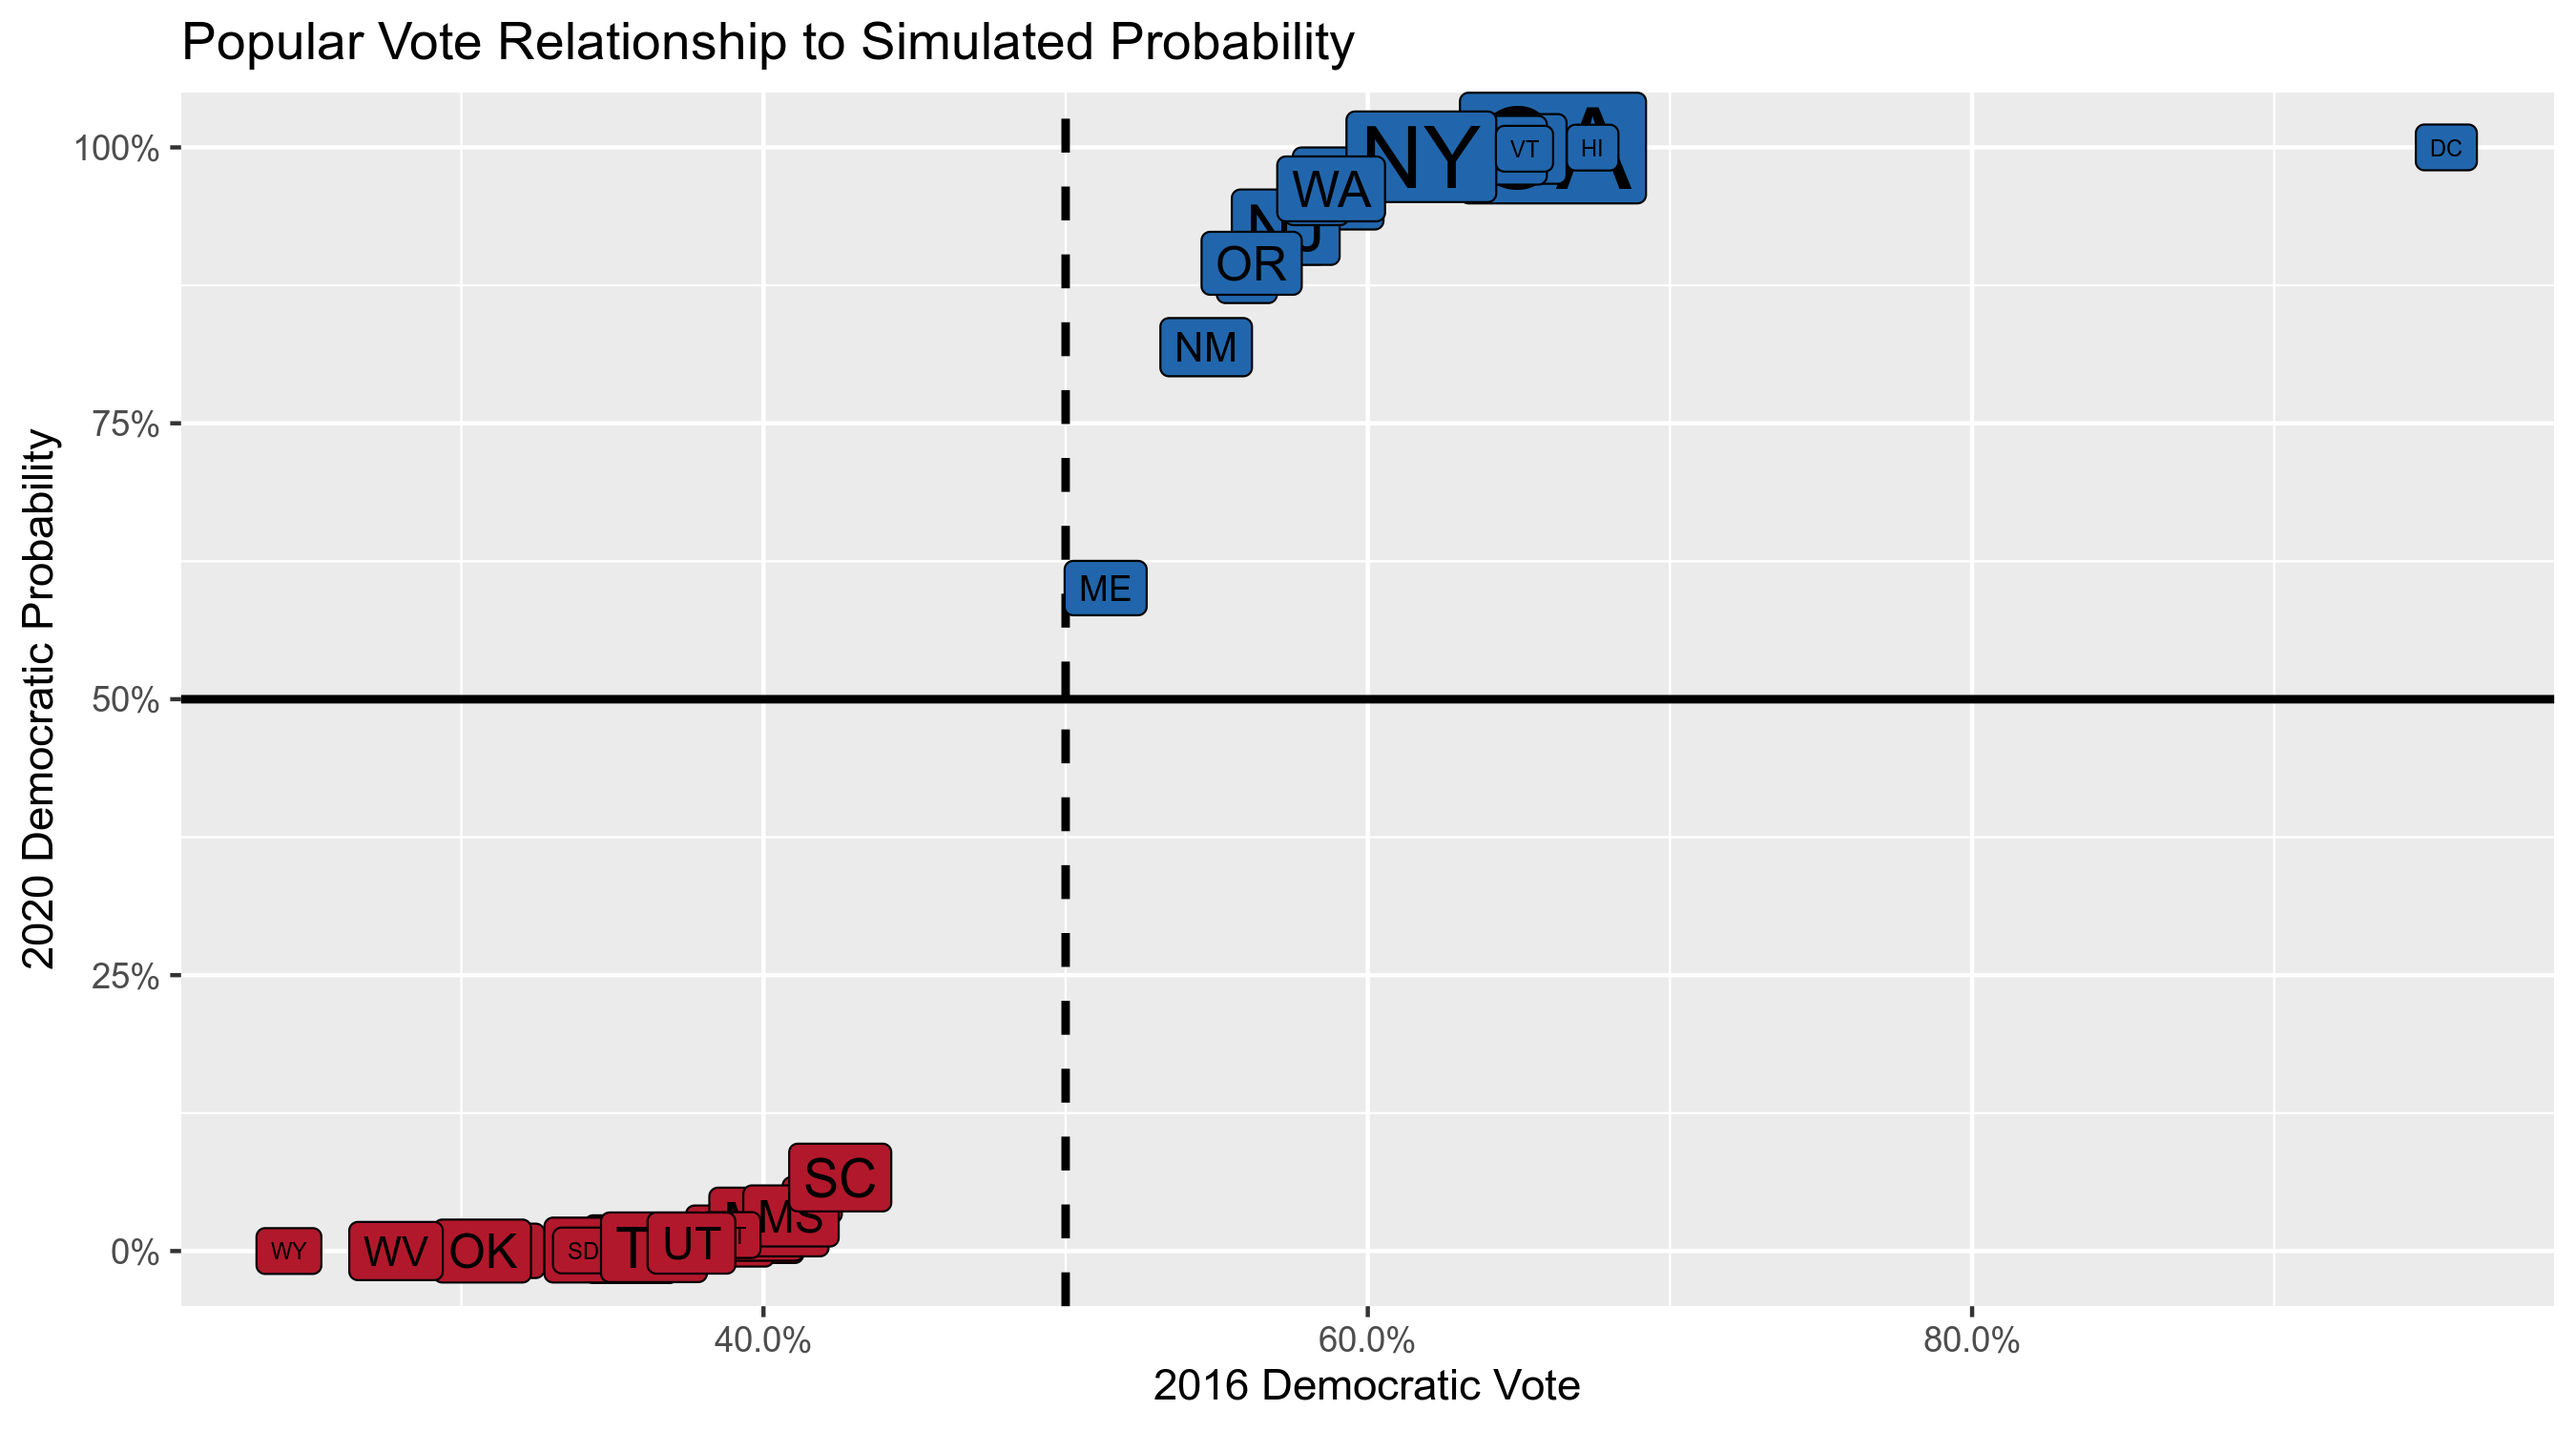
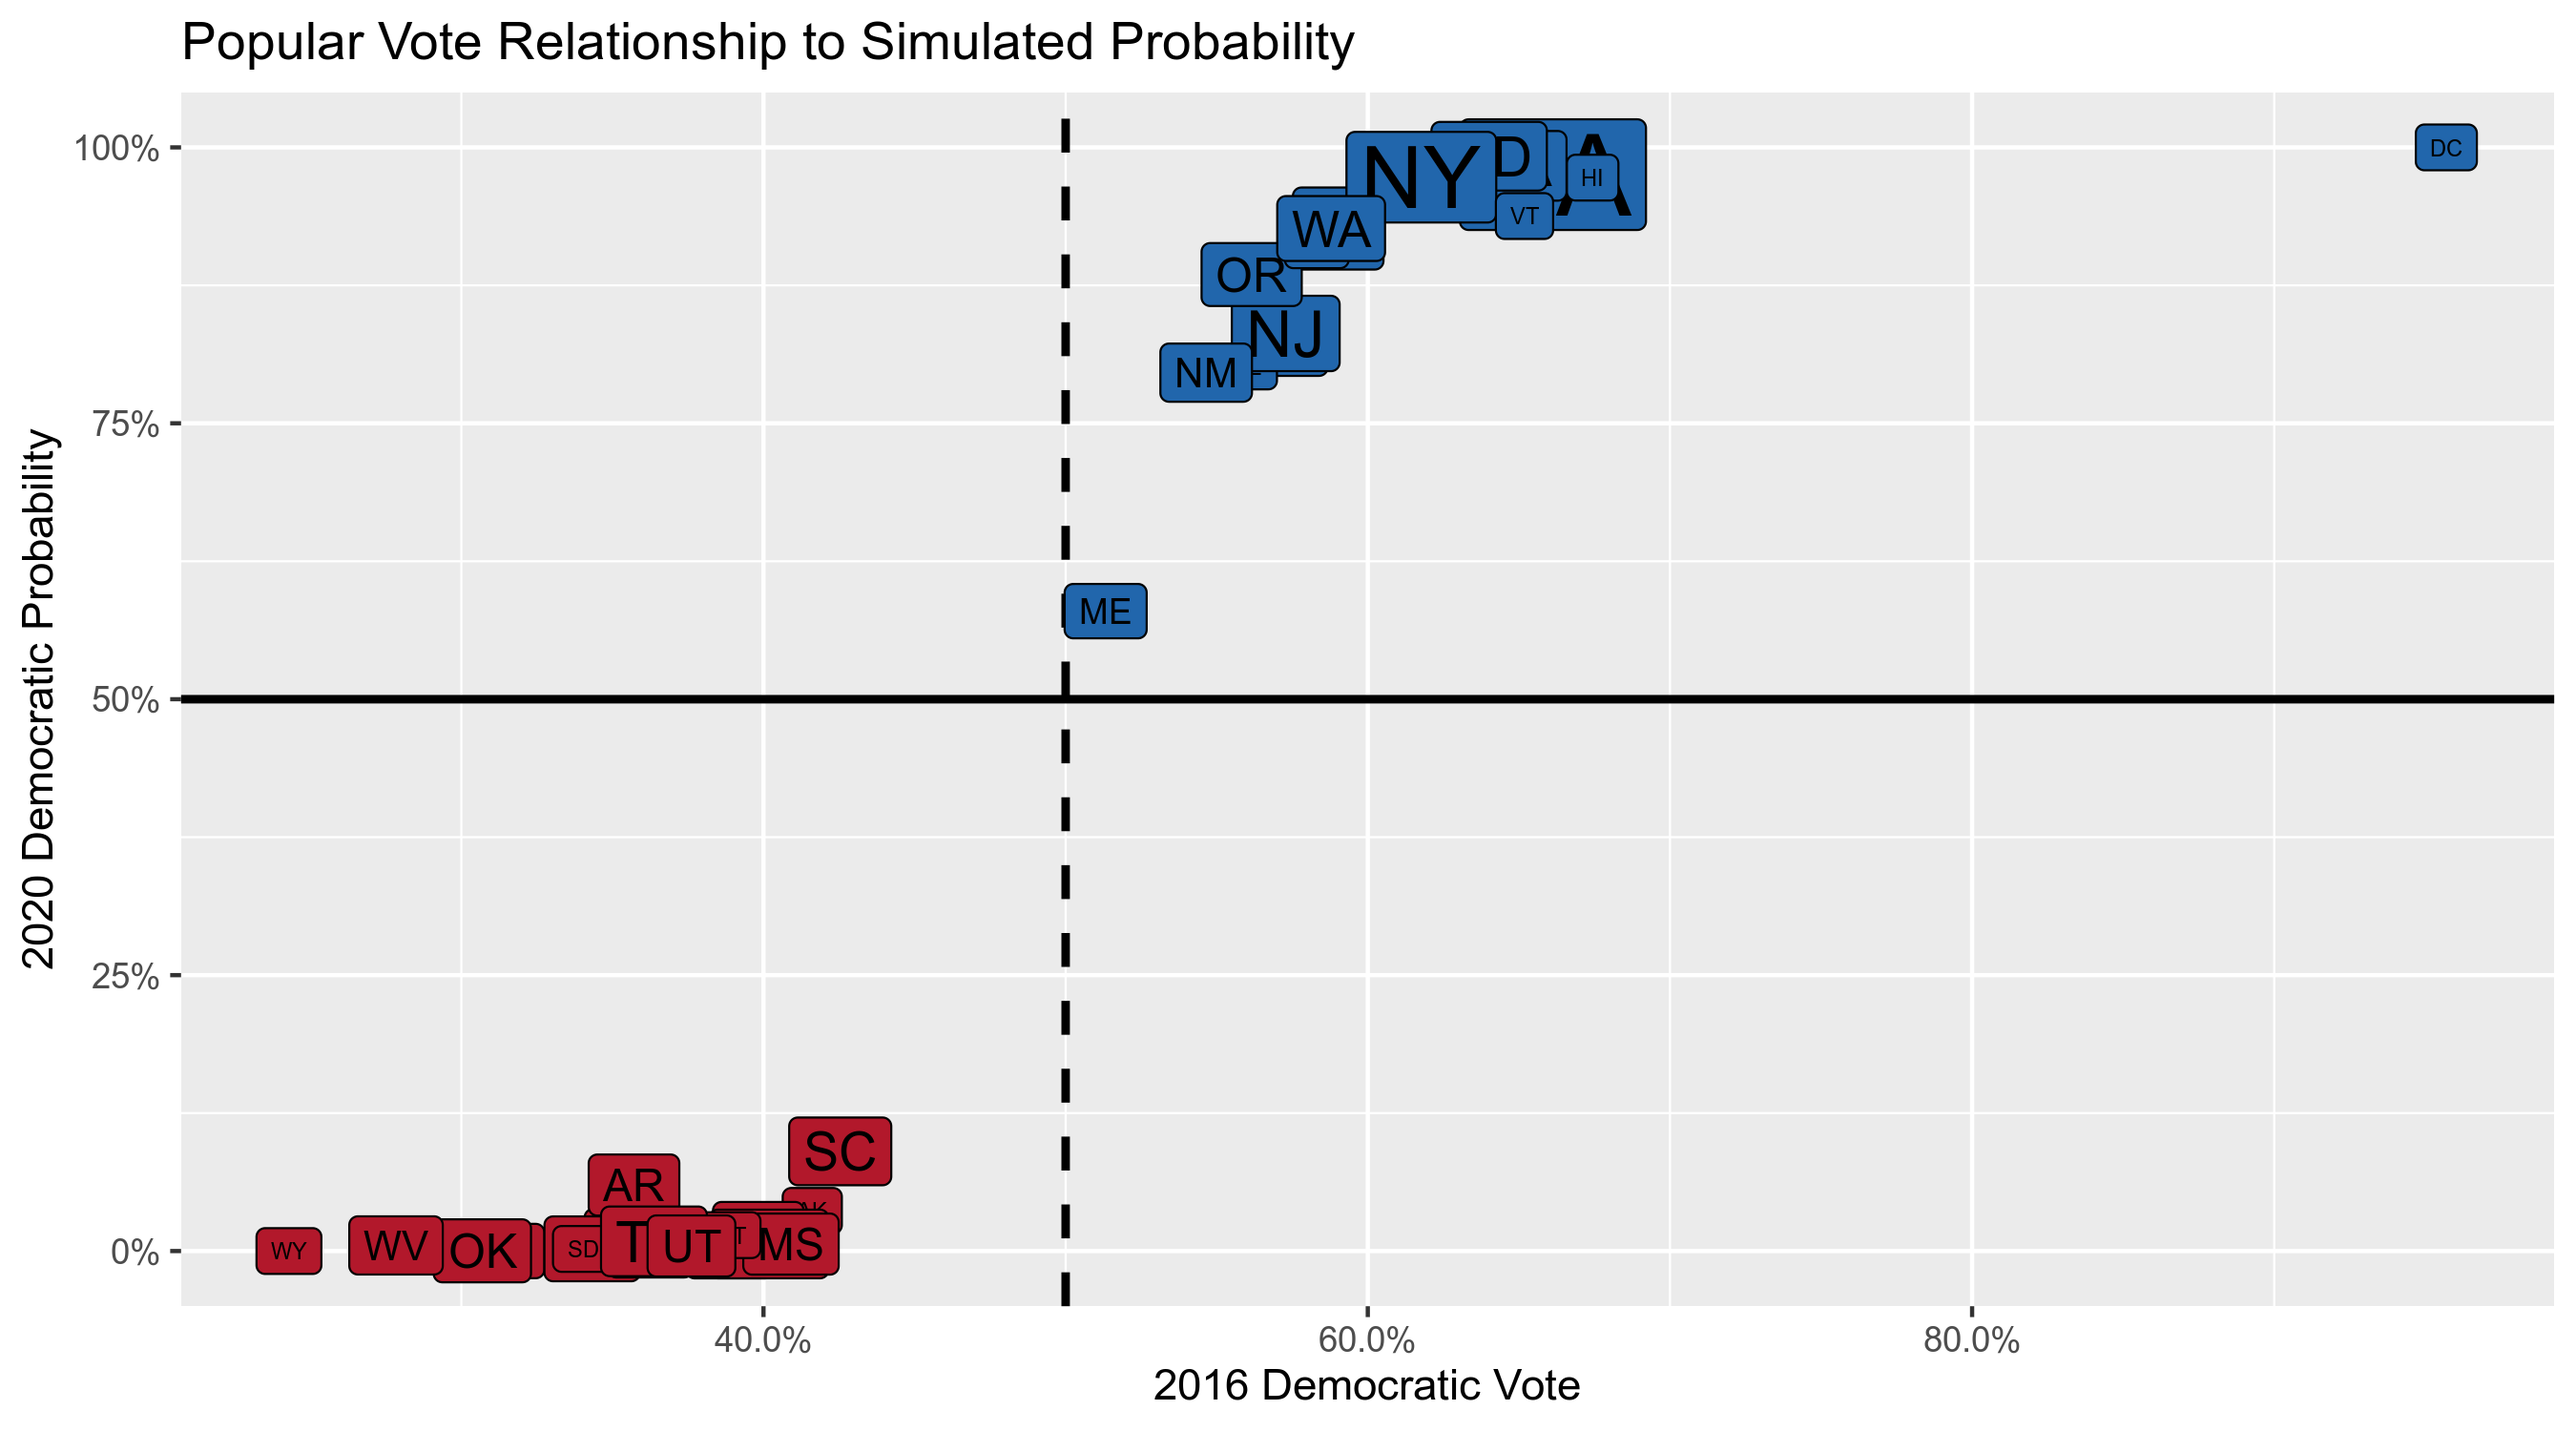
Use sd from past 11 elections

diff --git a/docs/sim_ec/sim_college.md b/docs/sim_ec/sim_college.md
@@ -158,17 +158,101 @@ those states *with* 2020 markets and those without.
 ![](sim_college_files/figure-gfm/vote_range-1.png)<!-- -->
 
 For those states without a market, we need to convert these vote shares
-to probabilities. In reality, a even a 5% edge results in a significant
-advantage and a probability difference much greater than 5%.
+to probabilities. In reality, a even a 5% edge in the popular vote
+results in a significant advantage and a probability difference much
+greater than 5%.
 
 To make this conversion, we simulate many new election using the 2016
-result. These simulated elections are normally distributed around the
-2016 results with a standard deviation of 0.5 to account for the
-uncertainty that’s developed in the last 3 years. Below you can see the
-results of 1,000 simulated elections in Maryland, which voted 64.0% for
-the Democratic candidate in the last election. The area under the curve
-past 50% is the *probability* of a democrat winning again in the next
-election.
+result. We make these simulations using a normal distribution around the
+2016 result. The standard deviation of such a distribution is where
+uncertainty is introduced, converting our popular vote to a probability.
+
+More complicated forecasting models like those released by
+FiveThirtyEight use proprietary models to calculate this degree of
+uncertainty. We know these models incorperate a number of historically
+predictive variables (partisanship, fundraising, incumbency, etc). For
+this simple demonstration, I will calculate the standard deviation of
+the past 11 Presidential elections in each state.
+
+The MIT Dataverse contains a dataset of Presidential contests since 1976
+with party vote counts in each state. We can read the file using
+`readr::read_tsv()` and calulating the standard deviation with
+`dplyr::group_by()` and `dplyr::summarize()`.
+
+``` r
+mit_url <- "https://dataverse.harvard.edu/api/access/datafile/:persistentId?persistentId=doi:10.7910/DVN/42MVDX/MFU99O"
+# MIT Election Data and Science Lab, 2017, "1976-2016-president.tab"
+# https://doi.org/10.7910/DVN/42MVDX/MFU99O, Harvard Dataverse, V5
+
+potus <- read_delim(
+    file = mit_url,
+    delim = "\t",
+    escape_double = FALSE,
+    escape_backslash = TRUE
+  )
+```
+
+``` r
+states_sd <- potus %>%
+  filter(candidatevotes > 1000) %>% 
+  filter(party %in% c("democrat")) %>%
+  mutate(prop = candidatevotes/totalvotes,) %>%
+  select(year, state = state_po, prop) %>%
+  group_by(state) %>%
+  summarize(sd = sd(prop))
+```
+
+Standard deviation is the variation in election results. A state with
+little change year to year will have a lower standard deviation,
+increasing our confidence and decreasing uncertainty in the next
+election/.
+
+``` r
+left_join(usa_map, states_sd) %>%
+  filter(state != "DC") %>% 
+  ggplot(mapping = aes(x = long, y = lat, group = group)) +
+  geom_polygon(color = "black", mapping = aes(fill = sd)) +
+  coord_quickmap() +
+  scale_fill_distiller(
+    type = "seq", palette = 5, direction = 1
+  ) +
+  theme(
+    legend.position = c(0.9, 0.35),
+    panel.background = element_blank(),
+    panel.grid = element_blank(),
+    plot.title = element_text(hjust = 0.5),
+    axis.text  = element_blank(),
+    axis.title = element_blank(),
+    axis.ticks = element_blank()
+  ) +
+  labs(
+    title = "Variation in Presidential Elections 1976-2016",
+    fill = "Standard\nDeviation"
+    )
+```
+
+![](sim_college_files/figure-gfm/unnamed-chunk-1-1.png)<!-- -->
+
+Using this standard deviation, we can generate 10,000 values from this
+random normal distribution. We can think of each of these values as a
+simulated election. The percentage of simulated elections won is the
+same as the *probability* of winning.
+
+``` r
+past_results <- past_results %>% 
+  left_join(states_sd) %>%
+  rowwise() %>% 
+  mutate(prob = mean(rnorm(10000, past, sd) > 0.50))
+```
+
+If we visualize this process, we can see how the 2016 result and a
+standard deviation is used to simulate many elections and calculate a
+probability.
+
+Below you can see the results of 1,000 simulated elections in Maryland,
+where 64.0% of votes were cast for the Democratic candidate in the last
+election. The area under the curve past 50% is the *probability* of a
+democrat winning again in the next election.
 
 ![](sim_college_files/figure-gfm/example_range_md-1.png)<!-- -->
 
@@ -185,27 +269,16 @@ by simulating the Connecticut election 30 times.
 ``` r
 (ex_past <- past_results$past[past_results$state == "CT"])
 #> [1] 0.5714155
-(ex_sims <- round(x = rnorm(n = 30, mean = ex_past, sd = 0.05), digits = 4))
-#>  [1] 0.6491 0.5383 0.5766 0.5286 0.5049 0.4915 0.5976 0.6158 0.6076 0.5793 0.4978 0.6854 0.6533
-#> [14] 0.5576 0.5244 0.6229 0.5843 0.5950 0.5569 0.5935 0.5326 0.4771 0.5352 0.5523 0.5018 0.6710
-#> [27] 0.6084 0.5719 0.6707 0.6144
+(ex_sd <- past_results$sd[past_results$state == "CT"])
+#> [1] 0.07728929
+(ex_sims <- round(x = rnorm(n = 30, mean = ex_past, sd = ex_sd), digits = 2))
+#>  [1] 0.56 0.62 0.63 0.62 0.53 0.59 0.55 0.60 0.43 0.62 0.54 0.58 0.61 0.62 0.48 0.63 0.58 0.64 0.62
+#> [20] 0.70 0.50 0.59 0.41 0.58 0.63 0.55 0.50 0.72 0.57 0.49
 (ex_wins <- ex_sims > 0.5)
-#>  [1]  TRUE  TRUE  TRUE  TRUE  TRUE FALSE  TRUE  TRUE  TRUE  TRUE FALSE  TRUE  TRUE  TRUE  TRUE
-#> [16]  TRUE  TRUE  TRUE  TRUE  TRUE  TRUE FALSE  TRUE  TRUE  TRUE  TRUE  TRUE  TRUE  TRUE  TRUE
+#>  [1]  TRUE  TRUE  TRUE  TRUE  TRUE  TRUE  TRUE  TRUE FALSE  TRUE  TRUE  TRUE  TRUE  TRUE FALSE
+#> [16]  TRUE  TRUE  TRUE  TRUE  TRUE FALSE  TRUE FALSE  TRUE  TRUE  TRUE FALSE  TRUE  TRUE FALSE
 mean(ex_wins)
-#> [1] 0.9
-```
-
-We can perform such random normal simulations for *every* state. We’ll
-generate *10,000* simulated elections and calculate the percent of those
-simulated elections where the democrat won.
-
-``` r
-past_results <- mutate(past_results, prob = NA)
-for (i in seq_along(past_results$state)) {
-  sims <- rnorm(n = 10000, mean = past_results$past[i], sd = 0.05)
-  past_results$prob[i] <- mean(sims > 0.5)
-}
+#> [1] 0.8
 ```
 
 Below, you can see how the 2016 vote results result in more extreme
@@ -276,13 +349,13 @@ sim1_result <- if_else(
 )
 ```
 
-In the above election, .
+In the above election, the Democrats did not win.
 
 To best understand the *range* of possible outcomes, we can perform the
 same simulation many times.
 
 ``` r
-n <- 10000
+n <- 100000
 sims <- rep(NA, n)
 for (i in seq(1, n)) {
   state_outcomes <- map_lgl(ec$dem, sim_race)
@@ -292,16 +365,16 @@ for (i in seq(1, n)) {
 ```
 
 From the summary below, you can see a picture of a very close race with
-the Democrats holding a slight lead. Of our 10,000 simulations, the
-Democrats won 75.7% with the modal outcome being a victory of 281
+the Democrats holding a slight lead. Of our 100,000 simulations, the
+Democrats won 68.7% with the modal outcome being a victory of 279
 electoral college votes.
 
 ``` r
 summary(sims)
 #>    Min. 1st Qu.  Median    Mean 3rd Qu.    Max. 
-#>   193.0   270.0   290.0   291.4   312.0   405.0
+#>   127.0   263.0   285.0   285.3   307.0   414.0
 mean(sims > 269)
-#> [1] 0.757
+#> [1] 0.6869
 ```
 
 ![](sim_college_files/figure-gfm/sim_hist-1.png)<!-- -->
